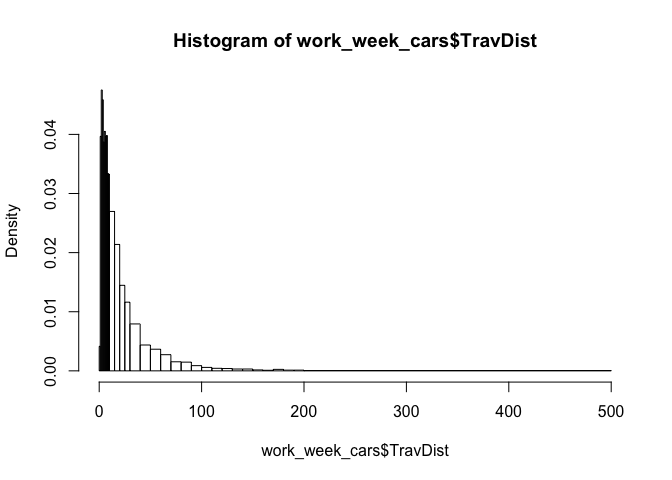
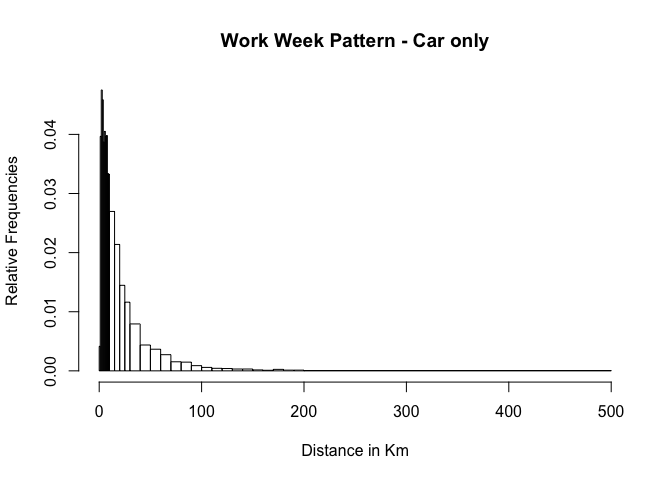
added descriptive stats

Changed region(s): [[0.25, 0.0625, 0.8125, 0.125], [0.375, 0.9062, 0.6562, 0.9688], [0.0, 0.3125, 0.0312, 0.6562]]

diff --git a/doc/AlbatrossReport.md b/doc/AlbatrossReport.md
@@ -92,37 +92,37 @@ For control over what distance ranges are extracted from the MON data, we define
 
 ![](AlbatrossReport_files/figure-markdown_github-ascii_identifiers/unnamed-chunk-11-1.png)
 
-|  bin\_low|  bin\_high|  proportion|
-|---------:|----------:|-----------:|
-|         0|          1|   0.0082645|
-|         1|          2|   0.0691854|
-|         2|          3|   0.0792601|
-|         3|          4|   0.0664305|
-|         4|          5|   0.0506100|
-|         5|          6|   0.0462810|
-|         6|          7|   0.0408501|
-|         7|          8|   0.0404565|
-|         8|          9|   0.0319559|
-|         9|         10|   0.0293585|
-|        10|         15|   0.1145218|
-|        15|         20|   0.0882330|
-|        20|         25|   0.0606061|
-|        25|         30|   0.0484061|
-|        30|         40|   0.0646202|
-|        40|         50|   0.0369146|
-|        50|         60|   0.0322708|
-|        60|         70|   0.0235340|
-|        70|         80|   0.0134593|
-|        80|         90|   0.0120425|
-|        90|        100|   0.0075561|
-|       100|        110|   0.0054309|
-|       110|        120|   0.0043290|
-|       120|        130|   0.0036206|
-|       130|        140|   0.0028335|
-|       140|        150|   0.0026761|
-|       150|        160|   0.0013381|
-|       160|        170|   0.0011019|
-|       170|        180|   0.0019677|
-|       180|        190|   0.0011806|
-|       190|        200|   0.0010232|
-|       200|        500|   0.0096812|
+|  bin\_low|  bin\_high|   carsOnly|   allModes|
+|---------:|----------:|----------:|----------:|
+|         0|          1|  0.0041578|  0.0082645|
+|         1|          2|  0.0396769|  0.0691854|
+|         2|          3|  0.0475172|  0.0792601|
+|         3|          4|  0.0458541|  0.0664305|
+|         4|          5|  0.0387265|  0.0506100|
+|         5|          6|  0.0405084|  0.0462810|
+|         6|          7|  0.0396769|  0.0408501|
+|         7|          8|  0.0397957|  0.0404565|
+|         8|          9|  0.0333809|  0.0319559|
+|         9|         10|  0.0332621|  0.0293585|
+|        10|         15|  0.1348301|  0.1145218|
+|        15|         20|  0.1069138|  0.0882330|
+|        20|         25|  0.0723450|  0.0606061|
+|        25|         30|  0.0580898|  0.0484061|
+|        30|         40|  0.0793538|  0.0646202|
+|        40|         50|  0.0437158|  0.0369146|
+|        50|         60|  0.0365883|  0.0322708|
+|        60|         70|  0.0273224|  0.0235340|
+|        70|         80|  0.0153243|  0.0134593|
+|        80|         90|  0.0147303|  0.0120425|
+|        90|        100|  0.0087907|  0.0075561|
+|       100|        110|  0.0058209|  0.0054309|
+|       110|        120|  0.0042766|  0.0043290|
+|       120|        130|  0.0039202|  0.0036206|
+|       130|        140|  0.0030886|  0.0028335|
+|       140|        150|  0.0030886|  0.0026761|
+|       150|        160|  0.0015443|  0.0013381|
+|       160|        170|  0.0009503|  0.0011019|
+|       170|        180|  0.0024947|  0.0019677|
+|       180|        190|  0.0011879|  0.0011806|
+|       190|        200|  0.0011879|  0.0010232|
+|       200|        500|  0.0118793|  0.0096812|
